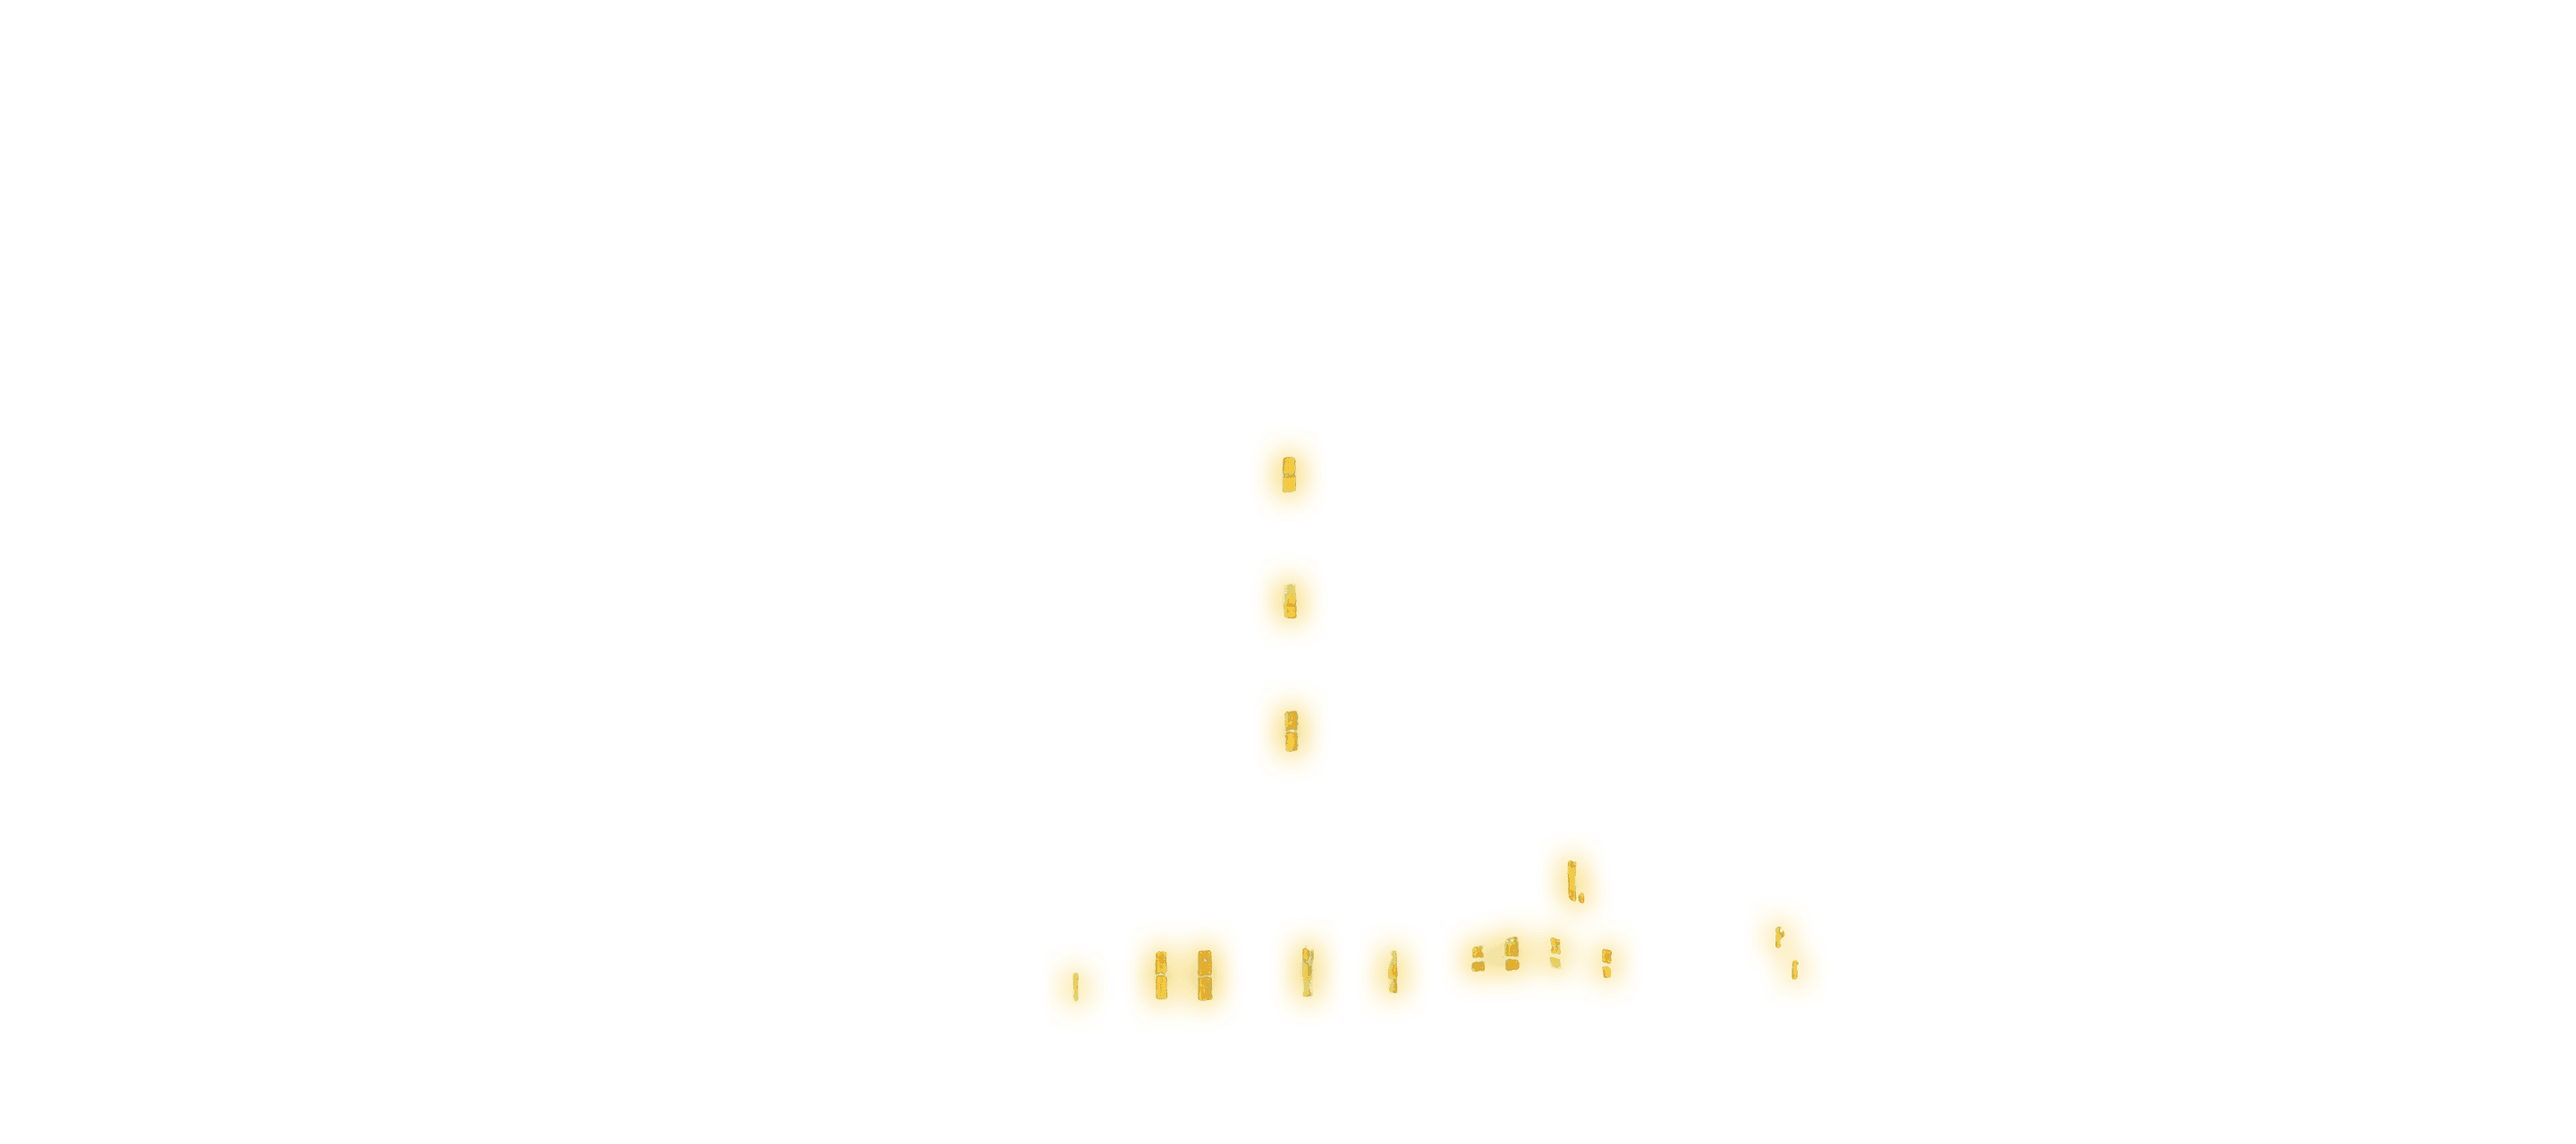
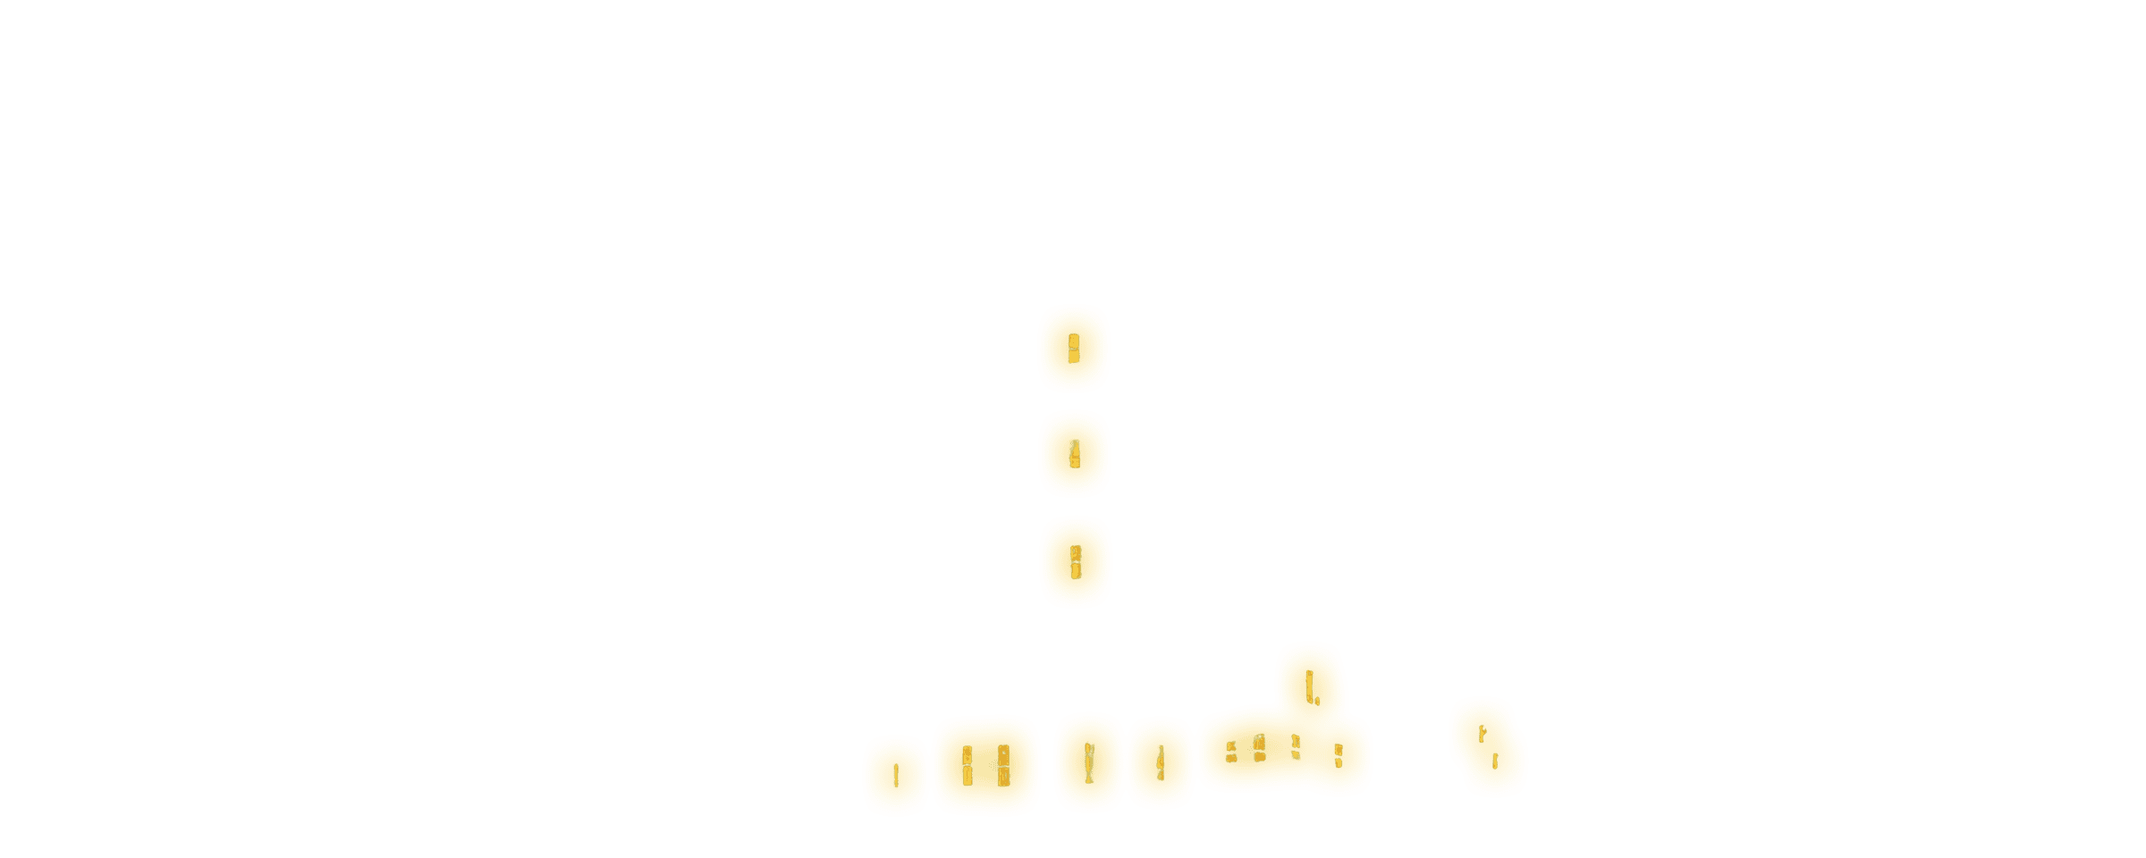
Shrank Hell and Lighthouse section and assets

diff --git a/src/features/Clients/components/Board/Board.tsx b/src/features/Clients/components/Board/Board.tsx
@@ -1,5 +1,5 @@
 import { type JSX } from "react";
-import { accentMoon, accentSun, board1x, board2x } from "./images";
+import { accentMoon, accentSun, board } from "./images";
 import "./styles.scss";
 
 export default function Board(): JSX.Element {
@@ -8,10 +8,8 @@ export default function Board(): JSX.Element {
       <img
         alt="Board"
         className="board__image"
-        src={board1x}
-        srcSet={`${board1x} 1440w, ${board2x} 2880w`}
-        sizes="(min-width: 1440px) 1440px, 100vw"
-        width={2880}
+        src={board}
+        width={1200}
         height={600}
       />
       <div className="board__accent board__accent--sun">

diff --git a/src/features/Clients/components/ClientQuilt/styles.scss b/src/features/Clients/components/ClientQuilt/styles.scss
@@ -7,6 +7,6 @@
   align-items: center;
   justify-content: center;
 
-  @include fluid-property($breaks-sm, $breaks-md, 100px, 200px, padding-top);
-  @include fluid-property($breaks-sm, $breaks-md, 20px, 50px, gap);
+  @include fluid-property($breaks-sm, $breaks-lg, 100px, 200px, padding-top);
+  @include fluid-property($breaks-sm, $breaks-lg, 20px, 50px, gap);
 }

diff --git a/src/features/Clients/components/Board/images/index.ts b/src/features/Clients/components/Board/images/index.ts
@@ -1,4 +1,3 @@
 export { default as accentMoon } from "./ouija_moon.svg";
 export { default as accentSun } from "./ouija_sun.svg";
-export { default as board1x } from "./board@1x.webp";
-export { default as board2x } from "./board@2x.webp";
+export { default as board } from "./board.webp";

diff --git a/src/features/Clients/styles.scss b/src/features/Clients/styles.scss
@@ -1,7 +1,7 @@
 @use "assets/stylesheets/consumables" as *;
 
 .clients__container {
-  @include fluid-property($breaks-md, $breaks-lg, 500px, 600px, height);
+  @include fluid-property($breaks-sm, $breaks-lg, 500px, 600px, height);
 }
 
 .clients__content {

diff --git a/src/features/Lighthouse/styles.scss b/src/features/Lighthouse/styles.scss
@@ -19,7 +19,7 @@ $mobile-lighthouse-container-center: calc(
 .lighthouse__container {
   width: $mobile-lighthouse-container-width;
   padding: 0;
-  aspect-ratio: 9 / 4;
+  aspect-ratio: 5 / 2;
 }
 
 .lighthouse__content {

diff --git a/src/features/Hell/styles.scss b/src/features/Hell/styles.scss
@@ -20,7 +20,7 @@ $mobile-hell-container-center: calc(
 .hell__container {
   width: $mobile-hell-container-width;
   padding: 0;
-  aspect-ratio: 9 / 4;
+  aspect-ratio: 5 / 2;
 }
 
 .hell__content {
